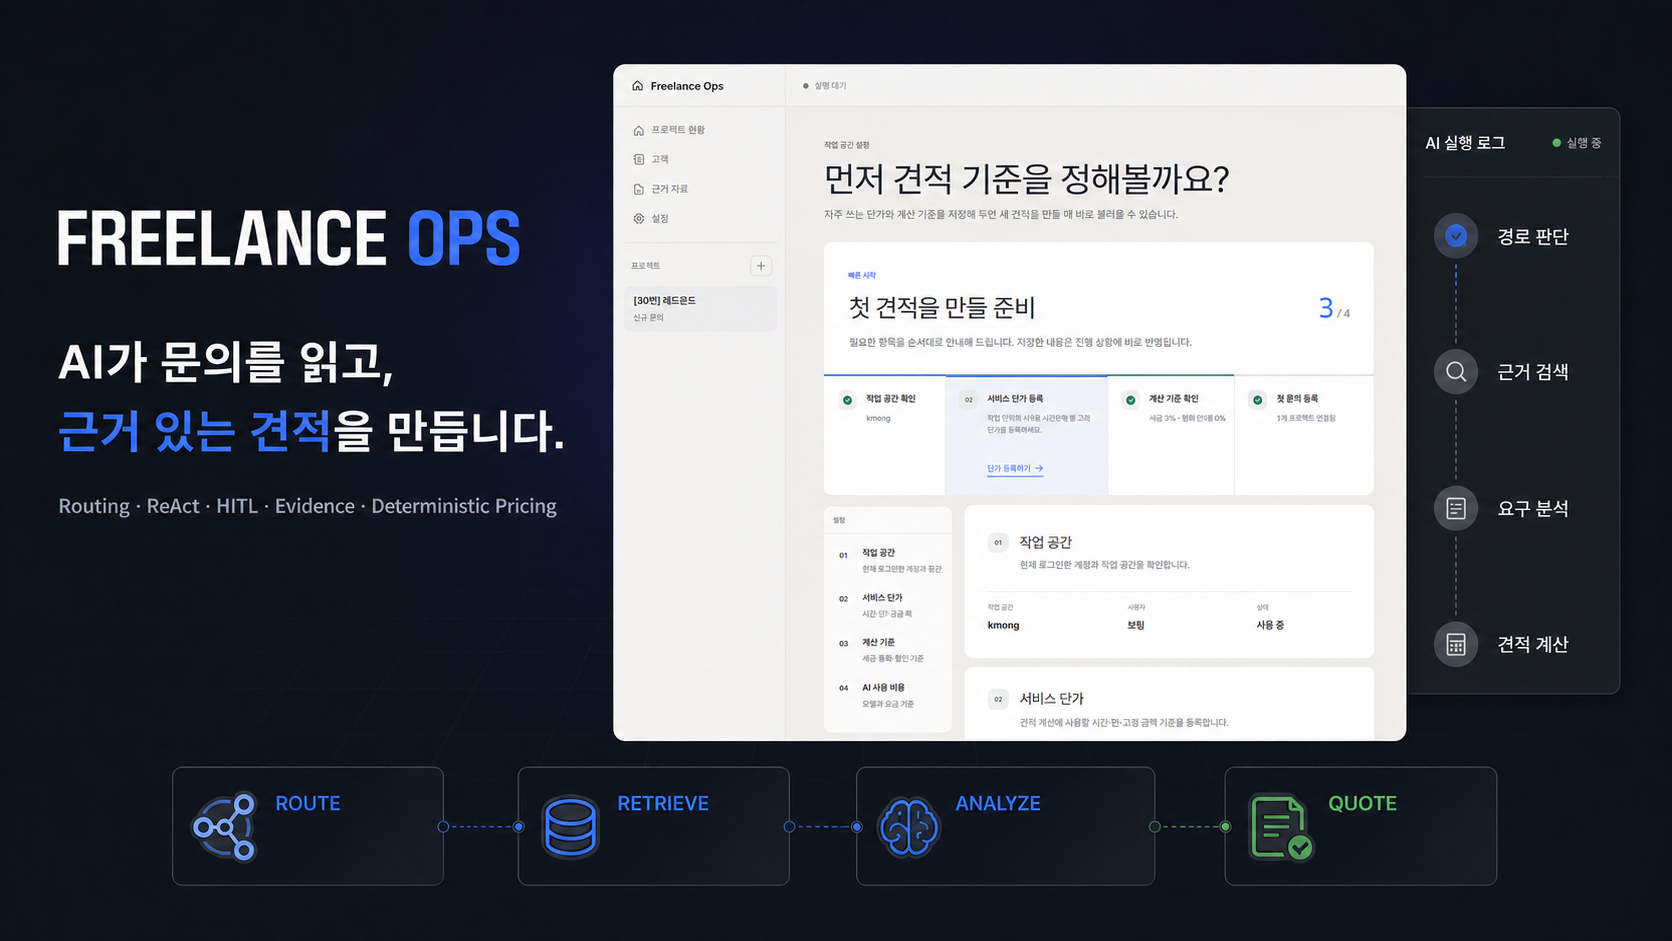
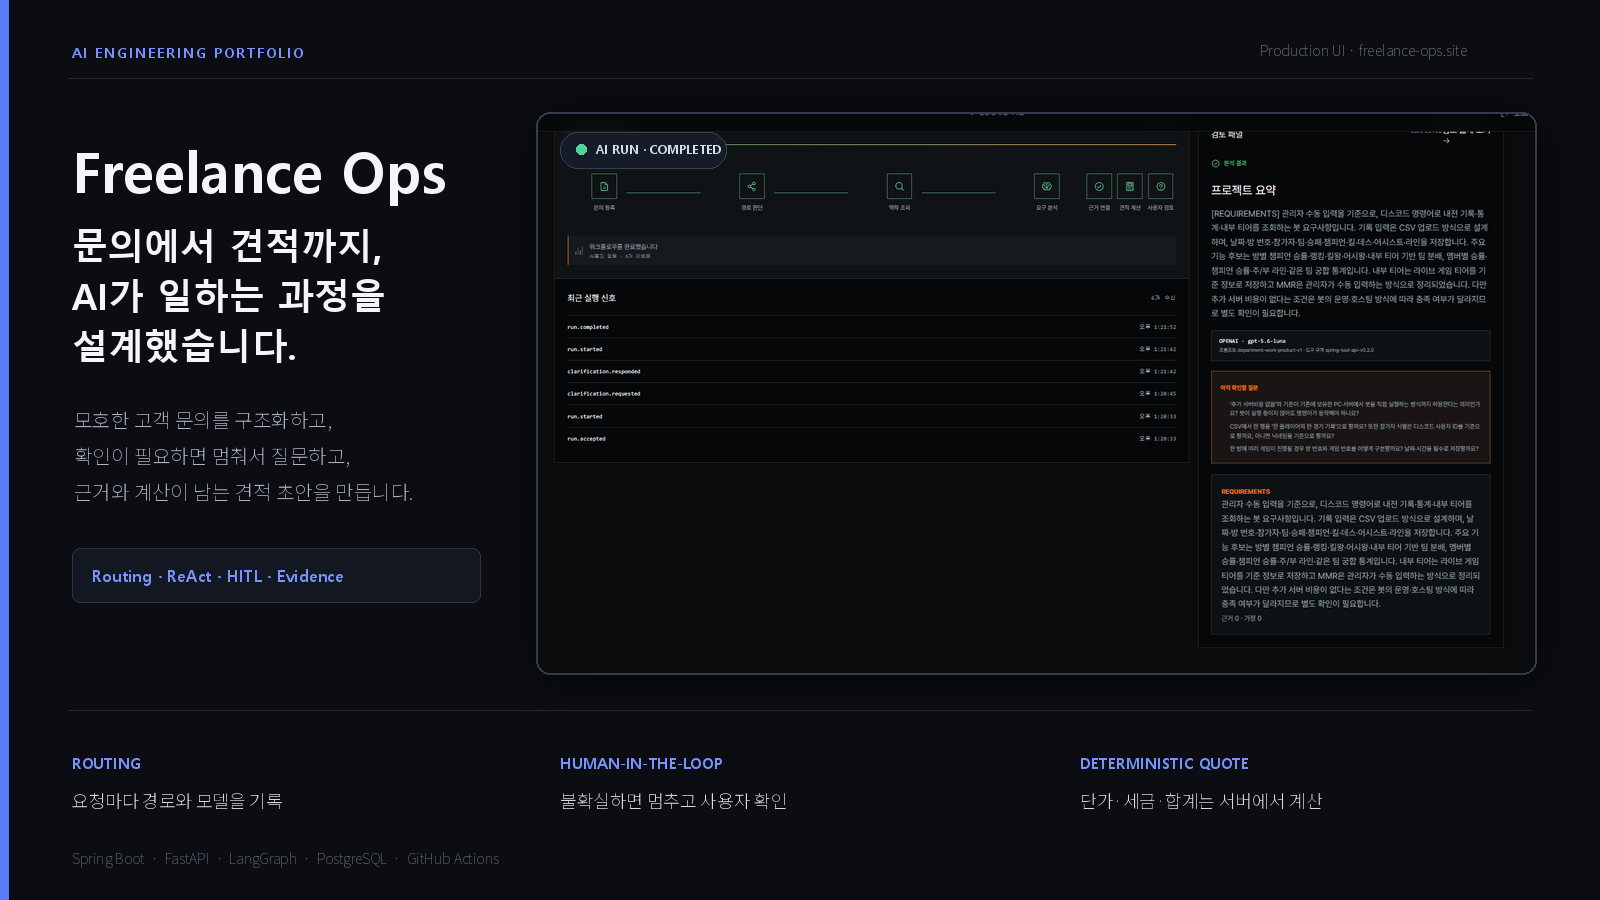
docs: replace generated hero with product capture

diff --git a/docs/STATUS.md b/docs/STATUS.md
@@ -13,7 +13,7 @@ V2 코드 구현도 90% 수준의 backend·Agent 기반에 실제 API 기반 fro
 
 ## 완료
 
-- 2026-08-15: GitHub README 첫 화면에서 제품과 AI 엔지니어링 핵심을 한 장으로 이해할 수 있는 16:9 hero 이미지를 제작했다. 실제 Workspace 설정 화면을 중심으로 `Routing · ReAct · HITL · Evidence · Deterministic Pricing`과 `ROUTE → RETRIEVE → ANALYZE → QUOTE` 흐름을 함께 배치했으며, 개인 정보·브라우저 UI·과도한 장식과 작은 설명 문구는 제외했다. 기존 상단 overview GIF를 1672×941 PNG hero로 교체했고 세부 기능 GIF는 각 사용 단계 설명에 유지했다.
+- 2026-08-15: GitHub README 첫 화면의 생성형 hero가 실제 제품보다 가짜 UI·네온·아이콘을 강조해 포트폴리오 신뢰도를 떨어뜨리는 문제를 수정했다. AI 생성 요소를 모두 제거하고 실제 운영 Workspace의 AI 실행 완료·HITL·분석 결과 화면을 그대로 사용한 1600×900 편집 이미지로 교체했다. 왼쪽에는 제품이 해결하는 문제, 아래에는 `ROUTING`, `HUMAN-IN-THE-LOOP`, `DETERMINISTIC QUOTE`의 운영 원칙만 짧게 배치했으며 브라우저 chrome·개인 정보·장식용 AI 이미지는 포함하지 않았다. PNG 용량도 약 1.36MB에서 241KB로 줄였다.
 
 - 2026-08-15: 프로젝트 삭제 확인 UI를 본문에 풀린 인라인 영역에서 중앙 경고 모달로 교체했다. 삭제되는 요구사항·AI 분석·견적·결과 기록을 항목별로 보여주고, 프로젝트명 확인 입력과 취소·영구 삭제 버튼을 분리했으며 닫기 버튼과 Esc 키를 지원한다. 프로젝트 화면에는 현재 단계의 파란 강조색, 정상 상태의 초록색, 삭제 작업의 빨간색을 역할별로 적용하고 단계 전환 패널 진입·상태 표시·모달에 짧은 motion을 추가했다. `prefers-reduced-motion`에서는 기존 전역 정책에 따라 motion이 비활성화된다. Frontend TypeScript, Node 테스트 40건과 ESLint가 통과했다.
 
